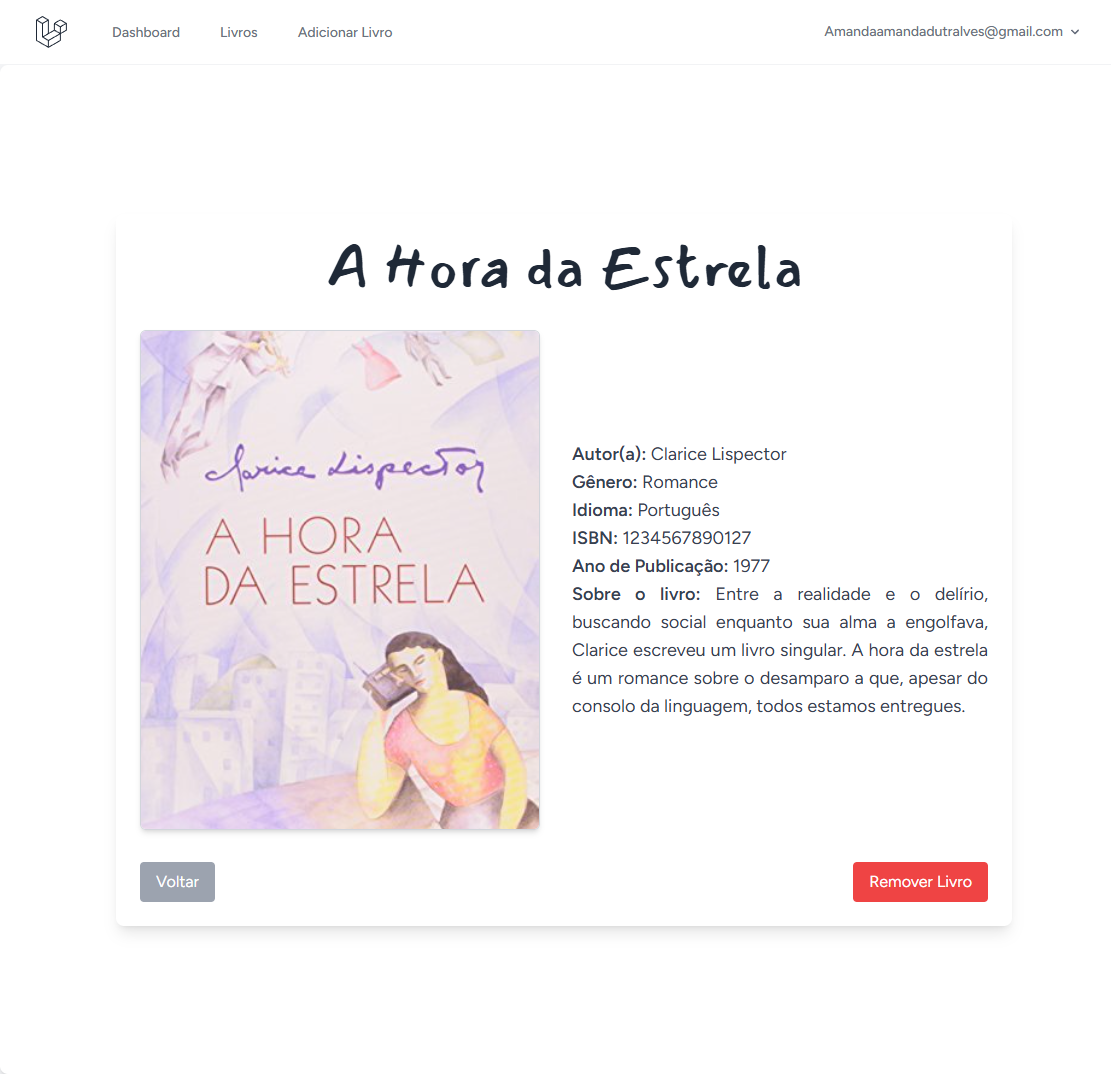
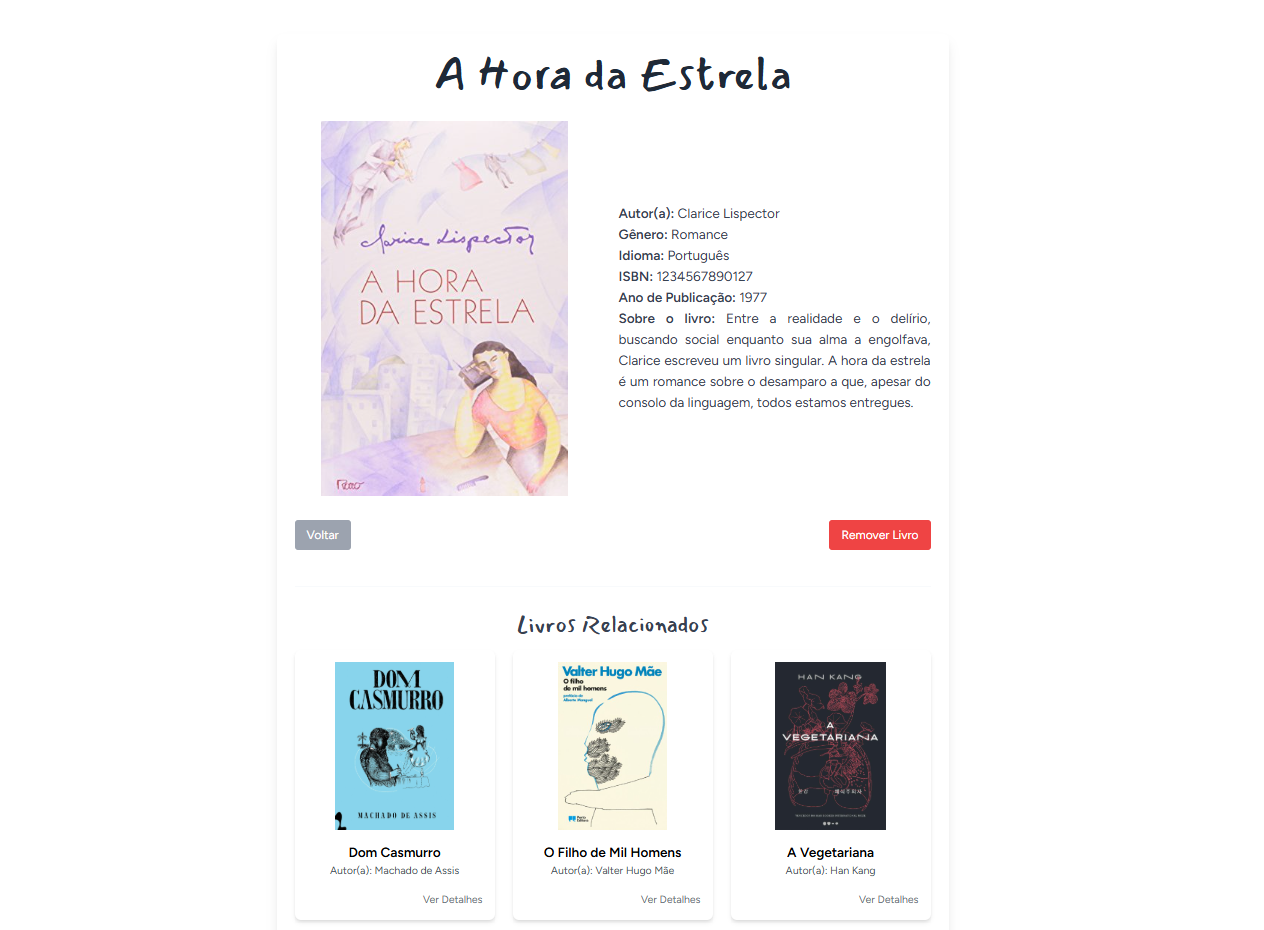
Correção de código, funcionalidade de livros, funcionalidade de livros relacionados

diff --git a/resources/views/livros/show.blade.php b/resources/views/livros/show.blade.php
@@ -2,65 +2,100 @@
 
 @section('content')
 
-    <div class="container mx-auto p-6 flex justify-center items-center min-h-screen">
-        <div class="w-full max-w-4xl bg-white p-6 rounded-lg shadow-lg">
-            <h1 style="font-family: 'Mansalva'" class="text-center mb-8 text-gray-800 text-6xl">{{ $livro->titulo }}</h1>
+<div class="container mx-auto p-6 flex justify-center items-center min-h-screen">
+    <div class="w-full max-w-4xl bg-white p-6 rounded-lg shadow-lg">
+        <h1 style="font-family: 'Mansalva'" class="text-center mb-8 text-gray-800 text-6xl">{{ $livro->titulo }}</h1>
 
-            <div class="flex flex-col md:flex-row items-center">
-                <!-- Imagem do Livro -->
-                <div class="flex-shrink-0">
-                    @if ($livro->capa)
-                        <div class="w-[400px] h-[500px]">
-                            <img src="{{ asset('storage/' . $livro->capa) }}" 
-                                 alt="Capa do Livro" 
-                                 class="w-full h-full rounded-md shadow-md border border-gray-300 object-cover">
-                        </div>
-                    @else
-                        <div class="w-[400px] h-[500px] bg-gray-200 flex items-center justify-center rounded-md shadow-md">
-                            <span class="text-gray-500">Sem capa disponível</span>
-                        </div>
-                    @endif
-                </div>
-
-                <div class="ml-0 md:ml-8 mt-6 md:mt-0 flex-grow text-gray-700 text-center">
-                    <p class="text-lg text-justify"><strong>Autor(a):</strong> 
-                        @if ($livro->autor)
-                            {{ $livro->autor->nome }} {{ $livro->autor->apelido }}
-                        @else
-                            <span class="text-gray-500">Autor não cadastrado</span>
-                        @endif
-                    </p>
-                    <p class="text-lg text-justify"><strong>Gênero:</strong> {{ $livro->genero }}</p>
-                    <p class="text-lg text-justify"><strong>Idioma:</strong> {{ $livro->idioma }}</p>
-                    <p class="text-lg text-justify"><strong>ISBN:</strong> {{ $livro->isbn }}</p>
-                    <p class="text-lg text-justify"><strong>Ano de Publicação:</strong> {{ $livro->ano }}</p>
-                    <p class="text-lg text-justify"><strong>Sobre o livro:</strong> 
-                        {{ $livro->historia ? $livro->historia : 'Sem história' }}
-                    </p>
-                </div>
+        <div class="flex flex-col md:flex-row items-center">
+            <!-- Imagem do Livro -->
+            <div class="flex-shrink-0">
+                @if ($livro->capa)
+                    <div class="w-[400px] h-[500px]">
+                        <img src="{{ asset('storage/' . $livro->capa) }}" 
+                             alt="Capa do Livro" 
+                             class="w-full h-full object-contain">
+                    </div>
+                @else
+                    <div class="w-[400px] h-[500px] bg-gray-200 flex items-center justify-center rounded-md shadow-md">
+                        <span class="text-gray-500">Sem capa disponível</span>
+                    </div>
+                @endif
             </div>
 
-            <!-- Botões -->
-            <div class="flex justify-between mt-8">
-                <a href="{{ route('livros.index') }}" class="bg-gray-400 text-white px-4 py-2 rounded hover:bg-gray-500">
-                    Voltar
-                </a>
-                @auth
-                @if (Auth::user()->role === 'admin')
-                <form action="{{ route('livros.destroy', $livro->id) }}" method="POST">
-                    @csrf
-                    @method('DELETE')
-                    <button type="submit" class="bg-red-500 text-white px-4 py-2 rounded hover:bg-red-700"
-                        onclick="return confirm('Tem certeza que deseja remover este livro?')">
-                        Remover Livro
-                    </button>
-                </form>
-                @else
-                   
-        @endif
-        @endauth
+            <div class="ml-0 md:ml-8 mt-6 md:mt-0 flex-grow text-gray-700 text-center">
+                <p class="text-lg text-justify"><strong>Autor(a):</strong> 
+                    @if ($livro->autor)
+                        {{ $livro->autor->nome }} {{ $livro->autor->apelido }}
+                    @else
+                        <span class="text-gray-500">Autor não cadastrado</span>
+                    @endif
+                </p>
+                <p class="text-lg text-justify"><strong>Gênero:</strong> {{ $livro->genero }}</p>
+                <p class="text-lg text-justify"><strong>Idioma:</strong> {{ $livro->idioma }}</p>
+                <p class="text-lg text-justify"><strong>ISBN:</strong> {{ $livro->isbn }}</p>
+                <p class="text-lg text-justify"><strong>Ano de Publicação:</strong> {{ $livro->ano }}</p>
+                <p class="text-lg text-justify"><strong>Sobre o livro:</strong> 
+                    {{ $livro->historia ? $livro->historia : 'Sem história' }}
+                </p>
             </div>
         </div>
+
+        <!-- Botões -->
+        <div class="flex justify-between mt-8">
+            <a href="{{ route('livros.index') }}" class="bg-gray-400 text-white px-4 py-2 rounded hover:bg-gray-500">
+                Voltar
+            </a>
+            @auth
+            @if (Auth::user()->role === 'admin')
+            <form action="{{ route('livros.destroy', $livro->id) }}" method="POST">
+                @csrf
+                @method('DELETE')
+                <button type="submit" class="bg-red-500 text-white px-4 py-2 rounded hover:bg-red-700"
+                    onclick="return confirm('Tem certeza que deseja remover este livro?')">
+                    Remover Livro
+                </button>
+            </form>
+            @endif
+            @endauth
+        </div>
+
+        <!-- Livros Relacionados -->
+        <div class="mt-12 border-t-2 border-slate-50">
+            <h2 style="font-family: 'Mansalva'" class="text-3xl text-center text-gray-700 mb-4 mt-8">Livros Relacionados</h2>
+            <div class="grid grid-cols-1 md:grid-cols-2 lg:grid-cols-3 gap-6">
+                @forelse ($livrosRelacionados as $relacionado)
+                    <div class="bg-white p-4 rounded-lg shadow-md">
+                        @if ($relacionado->capa)
+                            <img src="{{ asset('storage/' . $relacionado->capa) }}" 
+                                 alt="Capa do Livro" 
+                                 class="w-full h-56 object-contain rounded-md">
+                        @else
+                            <div class="w-full h-56 bg-gray-200 flex items-center justify-center rounded-md">
+                                <span class="text-gray-500">Sem capa disponível</span>
+                            </div>
+                        @endif
+                        <h3 class="text-lg font-semibold mt-4 text-center">{{ $relacionado->titulo }}</h3>
+                        <p class="text-sm text-gray-600 text-center">Autor(a): 
+                            @if ($relacionado->autor)
+                            {{ $relacionado->autor->nome }} {{ $relacionado->autor->apelido }}
+                            @else
+                                Desconhecido
+                            @endif
+                        </p>
+                        <div class="text-right mt-4">
+                            <a href="{{ route('livros.show', $relacionado->id) }}" class="text-gray-500 hover:text-gray-700 text-sm">
+                                Ver Detalhes </a>
+                        </div>
+                    </div>
+                @empty
+                <div>
+                <p class="text-gray-500">Nenhum livro relacionado.</p>
+                </div>
+                @endforelse
+            </div>
+        </div>
+
     </div>
+</div>
 
 @endsection

diff --git a/app/Http/Controllers/LivroController.php b/app/Http/Controllers/LivroController.php
@@ -24,11 +24,14 @@ class LivroController extends Controller
         }
     
         if ($request->filled('autor')) {
-            $query->whereHas('autor', function ($q) use ($request) {
-                $q->where('nome', 'like', '%' . $request->input('autor') . '%')
-                  ->orWhere('apelido', 'like', '%' . $request->input('autor') . '%');
+            $autorPesquisa = '%' . $request->input('autor') . '%';
+        
+            $query->whereHas('autor', function ($q) use ($autorPesquisa) {
+                $q->whereRaw("CONCAT(nome, ' ', apelido) LIKE ?", [$autorPesquisa]) // Pesquisa pelo nome completo
+                  ->orWhere('nome', 'like', $autorPesquisa) // Pesquisa apenas pelo nome
+                  ->orWhere('apelido', 'like', $autorPesquisa); // Pesquisa apenas pelo apelido
             });
-        }
+        }        
     
         if ($request->filled('genero')) {
             $query->where('genero', 'like', '%' . $request->input('genero') . '%');
@@ -94,7 +97,7 @@ class LivroController extends Controller
             'idioma' => 'required|string|max:255',
             'isbn' => 'required|string|max:13|unique:livros',
             'ano' => 'required|integer|min:0',
-            'observacoes' => 'nullable|string',
+            'historia' => 'nullable|string',
             'capa' => 'nullable|image|mimes:jpeg,png,jpg,gif|max:2048',
             'autor_opcao' => 'required',
             'autor_id' => 'nullable|exists:autores,id',
@@ -141,9 +144,15 @@ class LivroController extends Controller
      */
     public function show(string $id)
     {
-        
         $livro = Livro::with('autor')->findOrFail($id);
-        return view('livros.show', compact('livro'));  // Passa o livro para a view
+
+        // Encontrar livros relacionados pelo mesmo gênero, excluindo o livro atual
+        $livrosRelacionados = Livro::where('genero', $livro->genero)
+            ->where('id', '!=', $livro->id)
+            ->take(5) // Limitar a 5 livros
+            ->get();
+    
+        return view('livros.show', compact('livro', 'livrosRelacionados'));
     }
 
     /**
@@ -185,7 +194,7 @@ class LivroController extends Controller
         'idioma' => 'required|string|max:255',
         'isbn' => "required|string|max:13|unique:livros,isbn,{$id}",
         'ano' => 'required|integer|min:0',
-        'observacoes' => 'nullable|string',
+        'historia' => 'nullable|string',
         'capa' => 'nullable|image|mimes:jpeg,png,jpg,gif|max:2048',
         'autor_id' => 'required|exists:autores,id',
     ], $messages);
@@ -228,9 +237,5 @@ class LivroController extends Controller
         return redirect()->route('livros.index')->with('success', 'Livro removido com sucesso!');
     }
     
-
-    public function search(Request $request)
-{
-}
 
 }

diff --git a/resources/views/livros/index.blade.php b/resources/views/livros/index.blade.php
@@ -5,8 +5,10 @@
     <div class="container mx-auto p-6">
 
         <div class="flex justify-between items-center mb-6">
-            <div><h1 style="font-family: 'Mansalva'" class="text-5xl text-center text-gray-700">Biblioteca da Amanda</h1></div> 
-            
+        <div>
+        <h2 style="font-family: 'Mansalva'" class="text-5xl text-center text-gray-400">Biblioteca da Amanda</h2>
+        </div>
+
             <div class="flex gap-4 text-s">
                 <!-- Formulário de Pesquisa -->
                 <form action="{{ route('livros.index') }}" method="GET" class="flex gap-4">
@@ -78,11 +80,16 @@
                 </tbody>
             </table>
         </div>
+        <!-- Paginação e Contagem -->
+        <div class="mt-6 flex justify-between items-center">
+            <div class="text-gray-600 text-lg">
+                Total de Livros: {{ $livros->total() }}
+            </div>
+            <div>
+                {{ $livros->appends(request()->query())->links('pagination::tailwind') }}
+            </div>
+    </div>
 
-        <!-- Paginação -->
-        <div class="mt-6 flex justify-end">
-            {{ $livros->appends(request()->query())->links('pagination::tailwind') }}
-        </div>
     </div>
 
 @endsection

diff --git a/resources/views/livros/edit.blade.php b/resources/views/livros/edit.blade.php
@@ -42,9 +42,9 @@
                 </div>
 
                 <div class="mb-4">
-                    <label for="observacoes" class="block text-gray-700 font-bold">Observações:</label>
-                    <textarea name="observacoes" id="observacoes" rows="3" 
-                              class="w-full border rounded-lg p-3 focus:ring-2 focus:ring-gray-500">{{ $livro->observacoes }}</textarea>
+                    <label for="historia" class="block text-gray-700 font-bold">História:</label>
+                    <textarea name="historia" id="historia" rows="3" 
+                              class="w-full border rounded-lg p-3 focus:ring-2 focus:ring-gray-500">{{ $livro->historia }}</textarea>
                 </div>
 
                 <div class="mb-4">

diff --git a/resources/views/livros/create.blade.php b/resources/views/livros/create.blade.php
@@ -73,8 +73,8 @@
                         </div>
 
                         <div class="mb-4">
-                            <label for="observacoes" class="block text-gray-700 font-bold">Sobre o livro:</label>
-                            <textarea name="observacoes" id="observacoes" rows="3" class="w-full border rounded p-3 focus:ring-2 focus:ring-gray-500"></textarea>
+                            <label for="historia" class="block text-gray-700 font-bold">Sobre o livro:</label>
+                            <textarea name="historia" id="historia" rows="3" class="w-full border rounded p-3 focus:ring-2 focus:ring-gray-500"></textarea>
                         </div>
 
                         <div class="mb-4">
